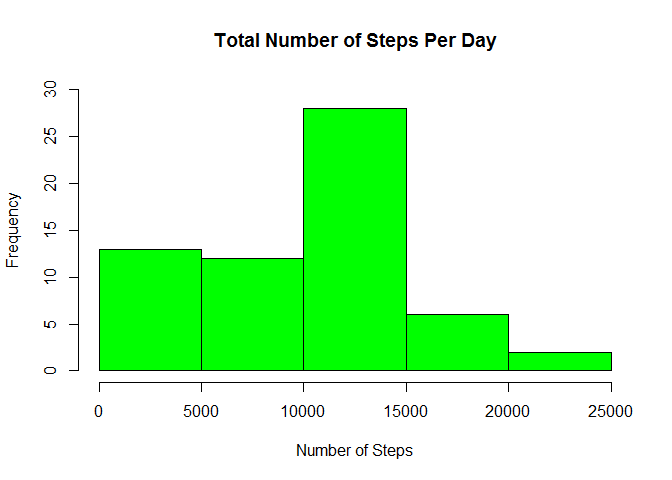
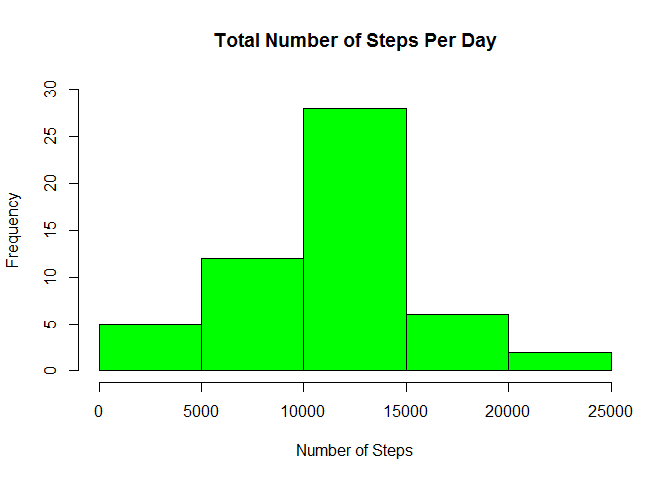
Project Commit 9/3/2015

Changed region(s): [[0.125, 0.5, 0.3125, 0.6875]]

diff --git a/PA1_template.html b/PA1_template.html
@@ -73,22 +73,23 @@ act$date &lt;- as.Date(act$date,format=&quot;%Y-%m-%d&quot;)</code></pre>
 <div id="what-is-mean-total-number-of-steps-taken-per-day" class="section level2">
 <h2>What is mean total number of steps taken per day?</h2>
 <p>A histogram of the total number of steps taken each day:</p>
-<pre class="r"><code>steps_day &lt;- aggregate(act$steps, by=list(date=act$date), FUN=sum,na.rm=TRUE)
+<pre class="r"><code>noNA &lt;- act[!is.na(act$steps),]
+steps_day &lt;- aggregate(noNA$steps, by=list(date=noNA$date), FUN=sum,na.rm=TRUE)
 colnames(steps_day) &lt;- c(&quot;date&quot;,&quot;totalSteps&quot;)
 hist(steps_day$totalSteps,xlab=&quot;Number of Steps&quot;,main=&quot;Total Number of Steps Per Day&quot;,col=&quot;green&quot;,ylim=range(0,30))</code></pre>
[2 lines of base64/hex data omitted]
 <p>The mean and median of the total number of steps taken per day:</p>
 <pre class="r"><code>stepsMean1 &lt;- mean(steps_day$totalSteps,na.rm=TRUE)
 stepsMean1</code></pre>
-<pre><code>## [1] 9354.23</code></pre>
+<pre><code>## [1] 10766.19</code></pre>
 <pre class="r"><code>stepsMedian1 &lt;- median(steps_day$totalSteps,na.rm=TRUE)
 stepsMedian1</code></pre>
-<pre><code>## [1] 10395</code></pre>
+<pre><code>## [1] 10765</code></pre>
 </div>
 <div id="what-is-the-average-daily-activity-pattern" class="section level2">
 <h2>What is the average daily activity pattern?</h2>
-<p>A time series plot of the 5-minute interval and the average number of steps taken, averaged across all days:</p>
-<pre class="r"><code>steps_interval &lt;- aggregate(act$steps, by=list(interval=act$interval), FUN=mean,na.rm=TRUE)
+<p>A time series plot of the 5-minute interval and the average number of steps taken, averaged across all days: Note: using the dataset with no missing values</p>
+<pre class="r"><code>steps_interval &lt;- aggregate(noNA$steps, by=list(interval=noNA$interval), FUN=mean,na.rm=TRUE)
 colnames(steps_interval) &lt;- c(&quot;interval&quot;,&quot;steps&quot;)
 with(steps_interval,plot(interval,steps,type=&quot;l&quot;),xlab=&quot;5-minute Interval&quot;,ylab=&quot;Number of Steps&quot;)
 title(&quot;Average number of steps taken versus the 5-minute intervals&quot;)</code></pre>
@@ -128,8 +129,8 @@ stepsMedian2</code></pre>
 <pre><code>## [1] 10766.19</code></pre>
 <p>Mean and median changes after filling NA values as follows:</p>
 <ul>
-<li>Mean changes from 9354.2295082 to 1.076618910^{4}</li>
-<li>Median changes from 10395 to 1.076618910^{4}</li>
+<li>Mean changes from 1.076618910^{4} to 1.076618910^{4}</li>
+<li>Median changes from 10765 to 1.076618910^{4}</li>
 </ul>
 </div>
 <div id="are-there-differences-in-activity-patterns-between-weekdays-and-weekends" class="section level2">

diff --git a/PA1_template.md b/PA1_template.md
@@ -24,7 +24,8 @@ act$date <- as.Date(act$date,format="%Y-%m-%d")
 A histogram of the total number of steps taken each day:  
 
 ```r
-steps_day <- aggregate(act$steps, by=list(date=act$date), FUN=sum,na.rm=TRUE)
+noNA <- act[!is.na(act$steps),]
+steps_day <- aggregate(noNA$steps, by=list(date=noNA$date), FUN=sum,na.rm=TRUE)
 colnames(steps_day) <- c("date","totalSteps")
 hist(steps_day$totalSteps,xlab="Number of Steps",main="Total Number of Steps Per Day",col="green",ylim=range(0,30))
 ```
@@ -39,7 +40,7 @@ stepsMean1
 ```
 
 ```
-## [1] 9354.23
+## [1] 10766.19
 ```
 
 ```r
@@ -48,14 +49,15 @@ stepsMedian1
 ```
 
 ```
-## [1] 10395
+## [1] 10765
 ```
 
 ## What is the average daily activity pattern?
 A time series plot of the 5-minute interval and the average number of steps taken, averaged across all days: 
+Note: using the dataset with no missing values
 
 ```r
-steps_interval <- aggregate(act$steps, by=list(interval=act$interval), FUN=mean,na.rm=TRUE)
+steps_interval <- aggregate(noNA$steps, by=list(interval=noNA$interval), FUN=mean,na.rm=TRUE)
 colnames(steps_interval) <- c("interval","steps")
 with(steps_interval,plot(interval,steps,type="l"),xlab="5-minute Interval",ylab="Number of Steps")
 title("Average number of steps taken versus the 5-minute intervals")
@@ -130,8 +132,8 @@ stepsMedian2
 
 Mean and median changes after filling NA values as follows:  
 
-* Mean changes from 9354.2295082 to 1.0766189\times 10^{4}
-* Median changes from 10395 to 1.0766189\times 10^{4}
+* Mean changes from 1.0766189\times 10^{4} to 1.0766189\times 10^{4}
+* Median changes from 10765 to 1.0766189\times 10^{4}
 
 
 
